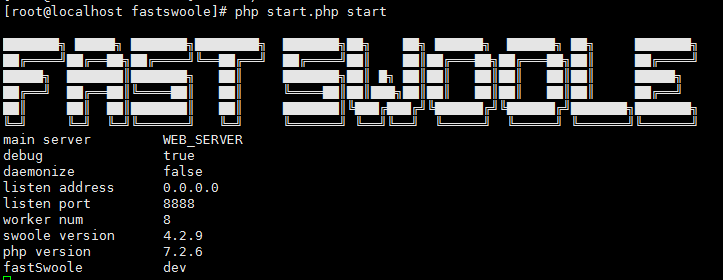
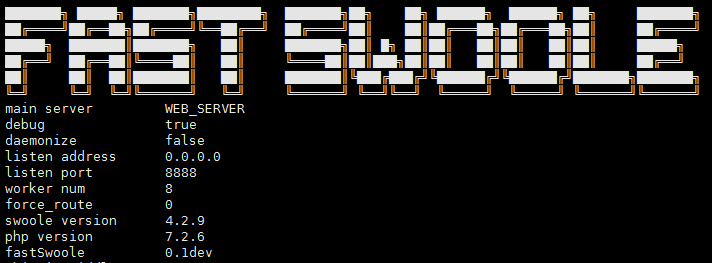
更新

diff --git a/views/tpl/welcome.html b/views/tpl/welcome.html
@@ -4,7 +4,7 @@
     <meta charset="utf-8">
     <meta http-equiv="X-UA-Compatible" content="IE=edge">
     <meta name="viewport" content="width=device-width, initial-scale=1">
-    <title>fastSwoole|swoole框架|swoole拓展|swoole</title>
+    <title>fastSwoole|swoole框架|swoole拓展|swoole|{$id}</title>
     <meta name="keywords" content="fastSwoole|swoole框架|swoole拓展|swoole"/>
     <meta name="description" content="fastSwoole是一款高度封装了swoole拓展而依旧保持swoole原有特性的一个高性能异步框架，旨在提供一个高效、快速、优雅的框架给php开发者。"/>
     <style>
@@ -64,13 +64,15 @@
 <div class="flex-center position-ref full-height">
     <div class="content">
         <div class="title m-b-md">
-            <img src="/fastSwoole.png">
-
+            <img src="/fastSwoole.png"><br>
+            <img src="/start.png">
+        </div>
+        <div>
+            <h2 style="color: blue;">大道至简 - 不传统的PHP高性能框架</h2>
         </div>
         <div class="links">
             <a href="https://www.kancloud.cn/panco/panco/860385">{$name}文档</a>
             <a href="https://github.com/panco95/fastSwoole">Github</a>
-            <a href="/intro">JSON响应</a>
         </div>
     </div>
 </div>

diff --git a/views/tpl/error.html b/views/tpl/error.html
@@ -44,7 +44,7 @@
         style='color: red;font-size: 24px;'>发生了一个错误!</span><br><br>
     <div style='font-size: 18px;color:darkblue;'>错误码：{$code}<br><br>错误信息：{$message}
     </div>
-    <br><br><a href='https://github.com/panco95/fastSwoole' style='color: blueviolet;'>FastSwoole</a> { 大道至简-不传统的高性能框架 }
+    <br><br><a href='https://github.com/panco95/fastSwoole' style='color: blueviolet;'>FastSwoole</a> { 大道至简-不传统的PHP高性能框架 }
 </div>
 </body>
 </html>

diff --git a/application/index/controller/Index.php b/application/index/controller/Index.php
@@ -12,6 +12,7 @@
 namespace app\index\controller;
 
 use library\Controller;
+use app\index\service\Index as IndexService;
 
 /**
  * Index控制器
@@ -19,24 +20,27 @@ use library\Controller;
 class Index extends Controller
 {
 
-    //public $middleware = 'app\middleware\Check';
+    public $middleware = 'app\middleware\Check';  //控制器中间件
 
-    /**
-     * 默认路由index方法
-     */
+    //默认方法，简单开发演示
     public function index()
     {
-        \library\Config::get("app","");
-        $this->fetch("tpl/welcome", ["name" => "开发"]);
+        $id = $this->get("id", 0);  //获取个体请求参数id
+        $id = IndexService::saveId($id);  //调取服务层
+        $this->fetch("tpl/welcome", ["name" => "开发", "id" => $id]);
     }
 
-    /**
-     * json响应
-     *
-     */
+    //返回json
     public function intro()
     {
         $this->json(["name" => "FastSwoole", "author" => "panco"]);
     }
+
+    //返回字符串
+    public function tell()
+    {
+        $this->text("hello");
+    }
+
 
 }

diff --git a/route/route.php b/route/route.php
@@ -13,12 +13,16 @@
 
 return [
     '' => [
-        "method" => "GET|POST",
-        "pathinfo" => "index/index/index",
-        "middleware" => "\app\middleware\Check"  //路由中间件
+        "method" => "GET",
+        "pathinfo" => "index/index/index"
     ],
     "intro" => [
         "method" => "GET|POST",
         "pathinfo" => "index/index/intro"
+    ],
+    'tell' => [
+        "method" => "GET|POST",
+        "pathinfo" => "index/index/tell",
+        "middleware" => "\app\middleware\Check"  //路由中间件
     ]
 ];

diff --git a/loader.php b/loader.php
@@ -10,7 +10,7 @@
 // +----------------------------------------------------------------------
 define("ROOT_PATH", __DIR__);
 define("APP_PATH", ROOT_PATH . "/application");
-define("FASTSWOOLE_VERSION", "dev");
+define("FASTSWOOLE_VERSION", "0.1dev");
 require_once ROOT_PATH . "/vendor/autoload.php";
 require_once ROOT_PATH . "/config/app.php";
 require_once APP_PATH . "/common.php";

diff --git a/application/server.php b/application/server.php
@@ -53,6 +53,7 @@ daemonize           {$daemonize}
 listen address      {$app['host']}
 listen port         {$app['port']}
 worker num          {$app['worker_num']}
+force_route         {$app['force_route']}
 swoole version      {$swoole_version}
 php version         {$php_version}
 fastSwoole          {$fastSwoole_version}

diff --git a/library/Controller.php b/library/Controller.php
@@ -158,9 +158,9 @@ class Controller
      * 字符串响应
      * @param $string
      */
-    public function string($string)
+    public function text($string)
     {
-        $this->response->end(json_encode($string));
+        $this->response->end($string);
     }
 
     /**

diff --git a/application/index/service/Index.php b/application/index/service/Index.php
@@ -1,0 +1,20 @@
+<?php
+/**
+ * Created by PhpStorm.
+ * User: Panco
+ * Date: 2018/12/5/005
+ * Time: 下午 2:04
+ */
+
+namespace app\index\service;
+
+
+class Index
+{
+
+    public static function saveId($id)
+    {
+        return md5($id);
+    }
+
+}

diff --git a/README.MD b/README.MD
@@ -6,6 +6,9 @@
 
 基于php + swoole扩展，具有天生高性能优势的Web框架
 
+开发文档：https://www.kancloud.cn/panco/panco/860385
+
+官网：http://fastswoole.iorip.cn
 
  安装步骤：
 
@@ -18,27 +21,3 @@
 `4、开启服务：php start.php start`
 
 `5、浏览器打开 127.0.0.8888`
-
-
-开发文档：https://www.kancloud.cn/panco/panco/860385
-
-
-已完成功能：
-
-`1、路由`
-
-`2、控制器`
-
-`3、中间件`
-
-`4、数据库`
-
-`5、缓存`
-
-`6、模板引擎`
-
-`7、日志`
-
-`8、错误处理`
-
-`9、服务进程管理`
